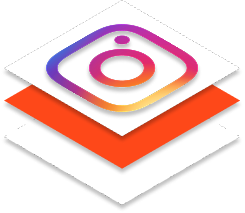
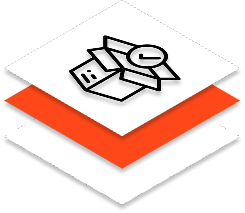
Fix grid overlay on SitSteps assets, push updated step PNGs
- Updated process-step-2/3/4.png assets
- Grid overlay restored at z-[9999]
- SitSteps icons at z-[10000] so grid lines don't appear over them
- Fix italic S clipping in SitSteps title

Changed region(s): [[0.1714, 0.1127, 0.8286, 0.5634]]

diff --git a/src/components/landing/sitsteps-section.tsx b/src/components/landing/sitsteps-section.tsx
@@ -63,7 +63,7 @@ export function SitStepsSection() {
       <div className="relative mx-auto max-w-5xl px-6 lg:px-10">
         {/* Title — right aligned */}
         <h2
-          className="mb-16 text-right text-3xl font-bold italic tracking-tight sm:text-4xl"
+          className="mb-16 text-right text-3xl font-bold italic tracking-tight sm:text-4xl overflow-visible pr-1"
           style={{
             background: 'linear-gradient(90deg, #000000 0%, #FE4819 100%)',
             WebkitBackgroundClip: 'text',
@@ -85,7 +85,7 @@ export function SitStepsSection() {
                 className={`flex flex-col ${isLeft ? 'items-start' : 'items-end'}`}
               >
                 {/* Icon — pushed far to the edge */}
-                <div className={`${isLeft ? '-ml-2 lg:-ml-6' : '-mr-2 lg:-mr-6'}`}>
+                <div className={`relative z-[10000] ${isLeft ? '-ml-2 lg:-ml-6' : '-mr-2 lg:-mr-6'}`}>
                   <Image
                     src={step.image}
                     alt={`Step ${i + 1}`}

diff --git a/app/page.tsx b/app/page.tsx
@@ -16,7 +16,7 @@ export default function LandingPage() {
         <SitStepsSection />
       </main>
       <LandingFooter />
-      {/* Full-page grid overlay — very subtle, looks like background texture */}
+      {/* Full-page grid overlay */}
       <div
         className="pointer-events-none fixed inset-0 z-[9999]"
         style={{
